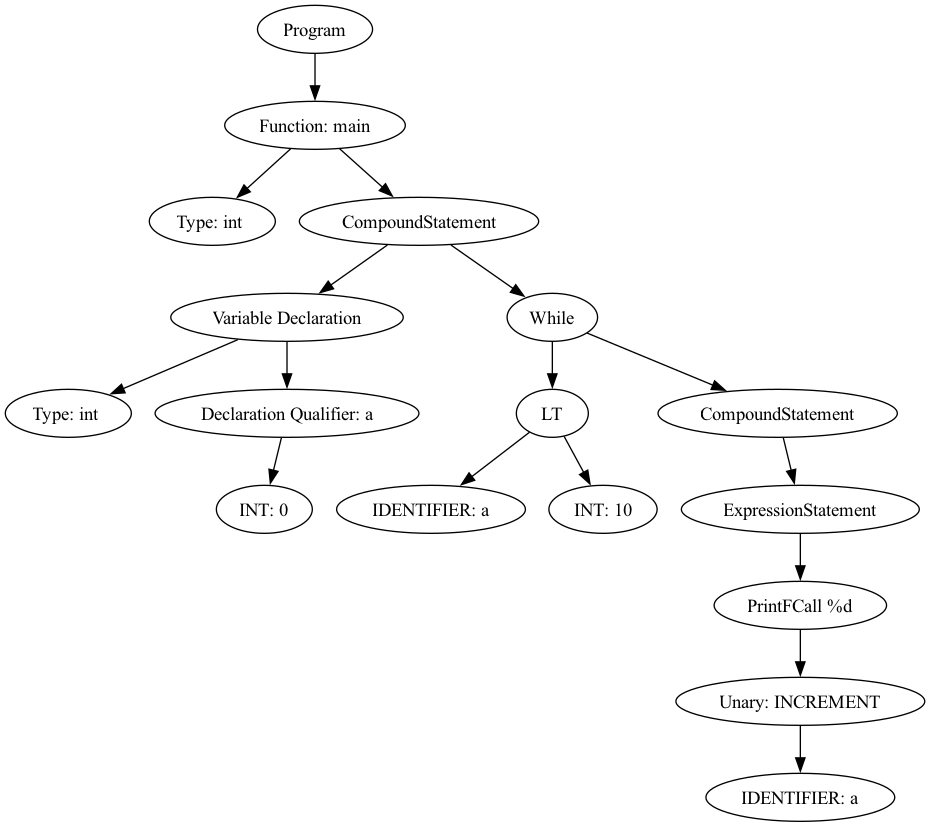
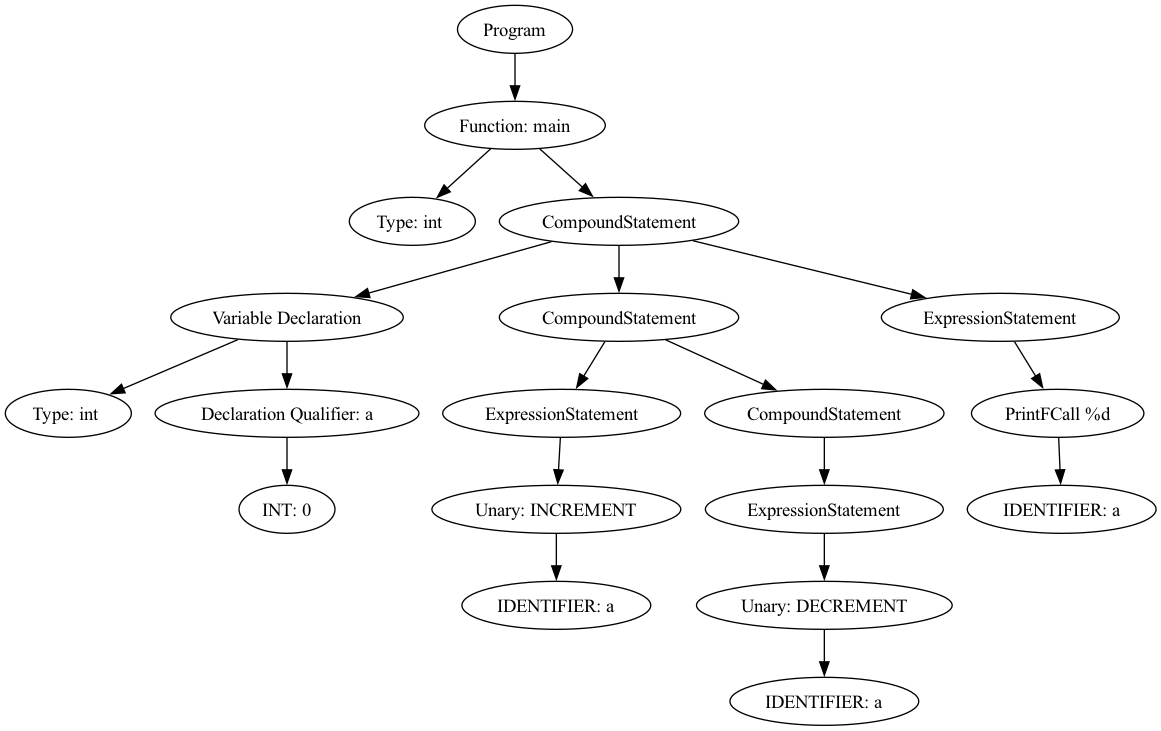
FEAT: ADD tests + FIX: typedef

diff --git a/compiler/frontend/antlr_files/GrammarParser.py b/compiler/frontend/antlr_files/GrammarParser.py
@@ -32,8 +32,8 @@ def serializedATN():
         24,1,24,1,24,1,24,5,24,244,8,24,10,24,12,24,247,9,24,1,25,1,25,1,
         25,1,25,1,25,1,25,5,25,255,8,25,10,25,12,25,258,9,25,1,26,1,26,1,
         26,1,26,3,26,264,8,26,3,26,266,8,26,1,27,1,27,1,27,1,27,1,27,1,27,
-        1,27,1,27,1,27,1,27,3,27,278,8,27,1,28,3,28,281,8,28,1,28,1,28,5,
-        28,285,8,28,10,28,12,28,288,9,28,1,28,3,28,291,8,28,1,29,1,29,1,
+        1,27,1,27,1,27,1,27,3,27,278,8,27,1,28,3,28,281,8,28,1,28,1,28,3,
+        28,285,8,28,1,28,5,28,288,8,28,10,28,12,28,291,9,28,1,29,1,29,1,
         30,1,30,1,31,1,31,1,32,1,32,1,33,1,33,1,33,0,6,40,42,44,46,48,50,
         34,0,2,4,6,8,10,12,14,16,18,20,22,24,26,28,30,32,34,36,38,40,42,
         44,46,48,50,52,54,56,58,60,62,64,66,0,11,1,0,47,48,1,0,41,46,1,0,
@@ -45,7 +45,7 @@ def serializedATN():
         1,0,0,0,30,169,1,0,0,0,32,174,1,0,0,0,34,179,1,0,0,0,36,181,1,0,
         0,0,38,188,1,0,0,0,40,193,1,0,0,0,42,204,1,0,0,0,44,215,1,0,0,0,
         46,226,1,0,0,0,48,237,1,0,0,0,50,248,1,0,0,0,52,265,1,0,0,0,54,277,
-        1,0,0,0,56,290,1,0,0,0,58,292,1,0,0,0,60,294,1,0,0,0,62,296,1,0,
+        1,0,0,0,56,280,1,0,0,0,58,292,1,0,0,0,60,294,1,0,0,0,62,296,1,0,
         0,0,64,298,1,0,0,0,66,300,1,0,0,0,68,70,3,28,14,0,69,68,1,0,0,0,
         70,73,1,0,0,0,71,69,1,0,0,0,71,72,1,0,0,0,72,74,1,0,0,0,73,71,1,
         0,0,0,74,78,3,2,1,0,75,77,3,28,14,0,76,75,1,0,0,0,77,80,1,0,0,0,
@@ -108,14 +108,14 @@ def serializedATN():
         278,5,34,0,0,275,278,5,35,0,0,276,278,3,26,13,0,277,267,1,0,0,0,
         277,268,1,0,0,0,277,269,1,0,0,0,277,273,1,0,0,0,277,274,1,0,0,0,
         277,275,1,0,0,0,277,276,1,0,0,0,278,55,1,0,0,0,279,281,3,60,30,0,
-        280,279,1,0,0,0,280,281,1,0,0,0,281,282,1,0,0,0,282,286,3,58,29,
-        0,283,285,3,62,31,0,284,283,1,0,0,0,285,288,1,0,0,0,286,284,1,0,
-        0,0,286,287,1,0,0,0,287,291,1,0,0,0,288,286,1,0,0,0,289,291,5,33,
-        0,0,290,280,1,0,0,0,290,289,1,0,0,0,291,57,1,0,0,0,292,293,7,8,0,
+        280,279,1,0,0,0,280,281,1,0,0,0,281,284,1,0,0,0,282,285,3,58,29,
+        0,283,285,5,33,0,0,284,282,1,0,0,0,284,283,1,0,0,0,285,289,1,0,0,
+        0,286,288,3,62,31,0,287,286,1,0,0,0,288,291,1,0,0,0,289,287,1,0,
+        0,0,289,290,1,0,0,0,290,57,1,0,0,0,291,289,1,0,0,0,292,293,7,8,0,
         0,293,59,1,0,0,0,294,295,5,15,0,0,295,61,1,0,0,0,296,297,5,38,0,
         0,297,63,1,0,0,0,298,299,7,9,0,0,299,65,1,0,0,0,300,301,7,10,0,0,
         301,67,1,0,0,0,24,71,78,91,108,118,122,125,142,145,150,167,179,201,
-        212,223,234,245,256,263,265,277,280,286,290
+        212,223,234,245,256,263,265,277,280,284,289
     ]
 
 class GrammarParser ( Parser ):
@@ -2396,6 +2396,9 @@ class GrammarParser ( Parser ):
             return self.getTypedRuleContext(GrammarParser.BaseTypeContext,0)
 
 
+        def ID(self):
+            return self.getToken(GrammarParser.ID, 0)
+
         def const(self):
             return self.getTypedRuleContext(GrammarParser.ConstContext,0)
 
@@ -2406,9 +2409,6 @@ class GrammarParser ( Parser ):
             else:
                 return self.getTypedRuleContext(GrammarParser.AddressQualifierContext,i)
 
-
-        def ID(self):
-            return self.getToken(GrammarParser.ID, 0)
 
         def getRuleIndex(self):
             return GrammarParser.RULE_type
@@ -2436,39 +2436,38 @@ class GrammarParser ( Parser ):
         self.enterRule(localctx, 56, self.RULE_type)
         self._la = 0 # Token type
         try:
-            self.state = 290
+            self.enterOuterAlt(localctx, 1)
+            self.state = 280
+            self._errHandler.sync(self)
+            _la = self._input.LA(1)
+            if _la==15:
+                self.state = 279
+                self.const()
+
+
+            self.state = 284
             self._errHandler.sync(self)
             token = self._input.LA(1)
-            if token in [1, 13, 14, 15]:
-                self.enterOuterAlt(localctx, 1)
-                self.state = 280
-                self._errHandler.sync(self)
-                _la = self._input.LA(1)
-                if _la==15:
-                    self.state = 279
-                    self.const()
-
-
+            if token in [1, 13, 14]:
                 self.state = 282
                 self.baseType()
-                self.state = 286
-                self._errHandler.sync(self)
-                _la = self._input.LA(1)
-                while _la==38:
-                    self.state = 283
-                    self.addressQualifier()
-                    self.state = 288
-                    self._errHandler.sync(self)
-                    _la = self._input.LA(1)
-
                 pass
             elif token in [33]:
-                self.enterOuterAlt(localctx, 2)
-                self.state = 289
+                self.state = 283
                 self.match(GrammarParser.ID)
                 pass
             else:
                 raise NoViableAltException(self)
+
+            self.state = 289
+            self._errHandler.sync(self)
+            _la = self._input.LA(1)
+            while _la==38:
+                self.state = 286
+                self.addressQualifier()
+                self.state = 291
+                self._errHandler.sync(self)
+                _la = self._input.LA(1)
 
         except RecognitionException as re:
             localctx.exception = re

diff --git a/compiler/__main__.py b/compiler/__main__.py
@@ -10,6 +10,50 @@ from compiler.utils.symboltabledotvisitor import SymbolTableDotVisitor
 from compiler.backend.llvm_target.llvm_ir_generator import LLVMIRGenerator
 
 
+def compile_file(input_file: str, render_ast: str = None, render_symb: str = None, no_optimise: bool = False, target_llvm: str = None):
+    # frontend
+    tree, input_stream = tree_from_file(filename=input_file)
+    ast = tree_to_ast(tree, input_stream)
+
+    symbol_table_visitor = SymbolTableVisitor(symbol_table=SymbolTable())
+    symbol_table_visitor.visit_program(ast)
+
+    # middle end
+    if not no_optimise:
+        ast = optimise_ast(ast)
+
+    if target_llvm:
+        # Generate LLVM IR
+        llvm_ir_generator = LLVMIRGenerator()
+        llvm_ir = llvm_ir_generator.generate_llvm_ir(ast)
+
+        # Write LLVM IR to a file
+        filename = str(input_file).split("/")[-1][:-2]
+        output_file = f"{target_llvm}/{filename}.ll"
+        with open(output_file, "w") as file:
+            file.write(llvm_ir)
+
+    # Perform actions based on the command line arguments
+    if render_ast:
+        dot_visitor = AstDotVisitor()
+        dot_visitor.visit_program(ast)
+        folder = render_ast
+        filename = str(input_file).split("/")[-1][:-2] + "_AST"
+        dot_visitor.output(f"{folder}/{filename}.dot")
+        command = f"dot -Tpng -o {folder}/{filename}.png {folder}/{filename}.dot"
+        subprocess.run(command, shell=True, check=True)
+
+    if render_symb:
+        symbol_table_tree = symbol_table_visitor.symbol_table.global_scope
+        dot_visitor = SymbolTableDotVisitor()
+        dot_visitor.generate_dot(symbol_table_tree)
+        folder = render_symb
+        filename = str(input_file).split("/")[-1][:-2] + "_SymbTable.dot"
+        dot_visitor.output(f"{folder}/{filename}")
+        command = "dot -Tpng -o" + f"{folder}/{filename}" + ".png " + f"{folder}/{filename}"
+        subprocess.run(command, shell=True, check=True)
+
+
 def main():
     parser = argparse.ArgumentParser(description='Compiler options.')
     parser.add_argument('--input', required=True, help='The input file to compile')
@@ -20,48 +64,7 @@ def main():
 
     args = parser.parse_args()
 
-    # frontend
-    tree, input_stream = tree_from_file(filename=args.input)
-    ast = tree_to_ast(tree, input_stream)
-
-    symbol_table_visitor = SymbolTableVisitor(symbol_table=SymbolTable())
-    symbol_table_visitor.visit_program(ast)
-
-    # middle end
-    if not args.no_optimise:
-        ast = optimise_ast(ast)
-
-    if args.target_llvm:
-        # Generate LLVM IR
-        llvm_ir_generator = LLVMIRGenerator()
-        llvm_ir = llvm_ir_generator.generate_llvm_ir(ast)
-
-        # Write LLVM IR to a file
-        filename = str(args.input).split("/")[-1][:-2]
-        output_file = f"{args.target_llvm}/{filename}.ll"
-        with open(output_file, "w") as file:
-            file.write(llvm_ir)
-
-    # Perform actions based on the command line arguments
-    if args.render_ast:
-        dot_visitor = AstDotVisitor()
-        dot_visitor.visit_program(ast)
-        folder = args.render_ast
-        filename = str(args.input).split("/")[-1][:-2] + "_AST"
-        dot_visitor.output(f"{folder}/{filename}.dot")
-        command = f"dot -Tpng -o {folder}/{filename}.png {folder}/{filename}.dot"
-        subprocess.run(command, shell=True, check=True)
-
-    if args.render_symb:
-        symbol_table_tree = symbol_table_visitor.symbol_table.global_scope
-        dot_visitor = SymbolTableDotVisitor()
-        dot_visitor.generate_dot(symbol_table_tree)
-        folder = args.render_symb
-        filename = str(args.input).split("/")[-1][:-2] + "_SymbTable.dot"
-        dot_visitor.output(f"{folder}/{filename}")
-        command = "dot -Tpng -o" + f"{folder}/{filename}" + ".png " + f"{folder}/{filename}"
-        subprocess.run(command, shell=True, check=True)
-
+    compile_file(args.input, args.render_ast, args.render_symb, args.no_optimise, args.target_llvm)
 
 
 if __name__ == "__main__":

diff --git a/tests/compiler_tests/test_compiler.py b/tests/compiler_tests/test_compiler.py
@@ -1,0 +1,42 @@
+import pytest
+import os
+import subprocess
+from compiler.__main__ import compile_file
+
+
+def run_my_compiler(input_file):
+    with open(input_file, "r") as file:
+        code = file.read()
+        with open("test.c", "w") as file:
+            code = code.replace("#include <stdio.h>", "")
+            file.write(code)
+    compile_file("test.c", target_llvm=".")
+    os.remove("test.c")
+
+
+def run_lli():
+    command = ["lli", "test.ll"]
+    result = subprocess.run(command, check=True, capture_output=True, text=True)
+    return result.stdout
+
+
+def run_clang(input_file):
+    output_file = "temp.out"
+    command = ["clang", "-o", output_file, input_file]
+    subprocess.run(command, check=True)
+    command = ["./" + output_file]
+    result = subprocess.run(command, check=True, capture_output=True, text=True)
+    os.remove(output_file)
+    return result.stdout
+
+
+@pytest.mark.parametrize("input_file", os.listdir("./tests/compiler_tests/files"))
+def test_compiler(input_file):
+    input_file = os.path.join("./files", input_file)
+    run_my_compiler(input_file)
+    my_output = run_lli()
+    os.remove("test.ll")
+    clang_output = run_clang(input_file)
+    assert my_output == clang_output
+
+

diff --git a/compiler/frontend/parser/tree_visitor.py b/compiler/frontend/parser/tree_visitor.py
@@ -98,19 +98,20 @@ class TreeVisitor(GrammarVisitor):
         )
 
     def visitType(self, ctx):
-        if ctx.ID():
-            text = ctx.ID().getText()
-            if text in self.typedef_scope:
-                return copy.deepcopy(self.typedef_scope[text])
-            else:
-                raise RuntimeError("Typedef not defined")
-        return ast.Type(
+        if ctx.baseType():
+            return ast.Type(
             base_type=ast.BaseType((ctx.baseType().getText())),
             const=ctx.const() is not None,
             address_qualifiers=[self.visitAddressQualifier(qualifier) for qualifier in ctx.addressQualifier()],
             line=ctx.start.line,
             position=ctx.start.column
         )
+        replace = copy.deepcopy(self.typedef_scope.get(ctx.ID().getText()))
+        replace.const = replace.const or ctx.const() is not None
+        replace.address_qualifiers += [self.visitAddressQualifier(qualifier) for qualifier in ctx.addressQualifier()]
+        replace.line=ctx.start.line
+        replace.position=ctx.start.column
+        return replace
 
     def visitAddressQualifier(self, ctx:GrammarParser.AddressQualifierContext):
         text = ctx.getText()

diff --git a/compiler/backend/llvm_target/llvm_ir_generator.py b/compiler/backend/llvm_target/llvm_ir_generator.py
@@ -28,7 +28,11 @@ class LLVMIRGenerator(AstVisitor):
 
     def generate_llvm_ir(self, node):
         self.visit(node)
-        return str(self.module)
+        result = str(self.module)
+        lines = result.split("\n")
+        lines.remove(lines[1])
+        lines.remove(lines[1])
+        return "\n".join(lines)
 
     def visit_expression(self, node: ast.Expression):
         if node.c_syntax:
@@ -337,7 +341,7 @@ class LLVMIRGenerator(AstVisitor):
         self.visit_expression(node.expression)
 
     def visit_printf_call(self, node: ast.PrintFCall) -> None:
-        format_string = node.replacer.value + "\n"
+        format_string = node.replacer.value
         format_string_constant = ir.GlobalVariable(
             self.module, ir.ArrayType(ir.IntType(8), len(format_string)),
             name=f"printf_format_{node.line}_{node.position}"

diff --git a/tests/compiler_tests/files/test_5.c b/tests/compiler_tests/files/test_5.c
@@ -1,0 +1,12 @@
+#include <stdio.h>
+
+typedef int bool;
+
+int main() {
+    bool b = 0;
+    b = 1;
+    bool* b_ptr = &b;
+    *b_ptr = 0;
+    printf("%d", b);
+}
+

diff --git a/tests/compiler_tests/files/test_4.c b/tests/compiler_tests/files/test_4.c
@@ -1,0 +1,8 @@
+#include <stdio.h>
+
+int main() {
+    char b = '\n';
+    b++;
+    printf("%d", b);
+}
+

diff --git a/tests/compiler_tests/files/test_3.c b/tests/compiler_tests/files/test_3.c
@@ -1,0 +1,7 @@
+#include <stdio.h>
+
+int main() {
+    char b = '\n';
+    printf("%d", b);
+}
+

diff --git a/tests/compiler_tests/files/test_2.c b/tests/compiler_tests/files/test_2.c
@@ -1,0 +1,7 @@
+#include <stdio.h>
+
+int main() {
+    int a = 1;
+    printf("%d", a);
+}
+

diff --git a/tests/compiler_tests/files/test_1.c b/tests/compiler_tests/files/test_1.c
@@ -1,0 +1,6 @@
+#include <stdio.h>
+
+int main() {
+    printf("%d", 1);
+}
+
